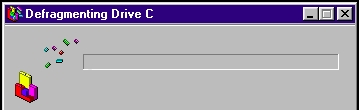
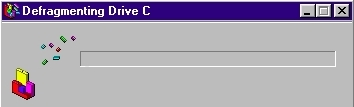
removed border from progressbar

diff --git a/static/css/style.css b/static/css/style.css
@@ -13,8 +13,8 @@ body{
 }
 
 div#progbar{
-    width: 359px;
-    height: 110px;
+    width: 355px;
+    height: 109px;
     background-image: url('/static/assets/progbarc.jpg');
     position: absolute;
     top: 75%;
